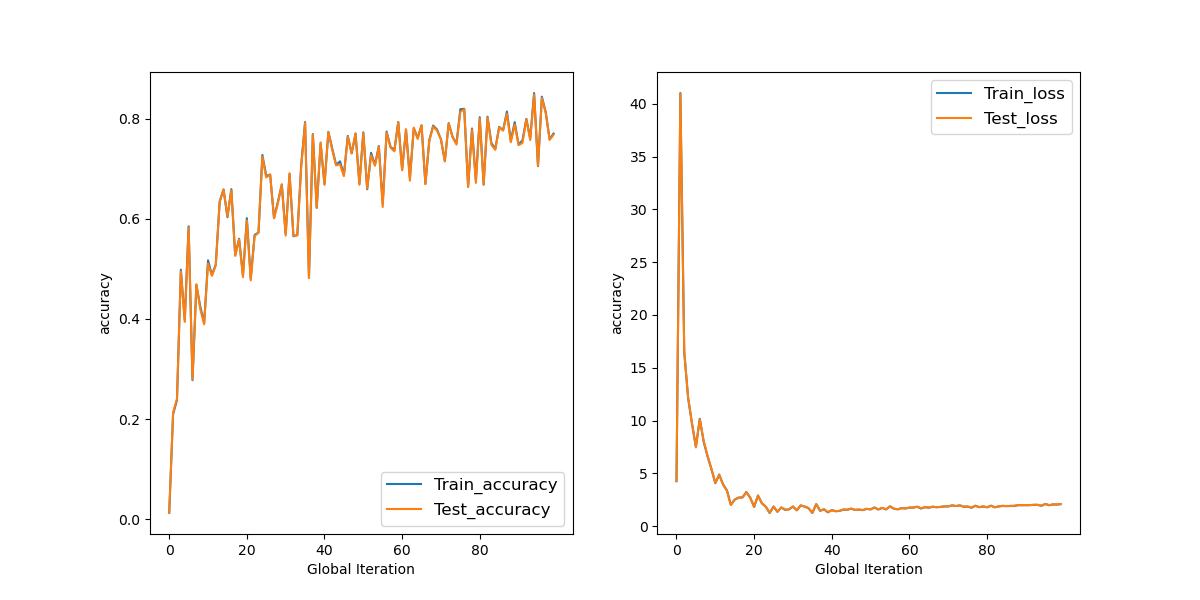
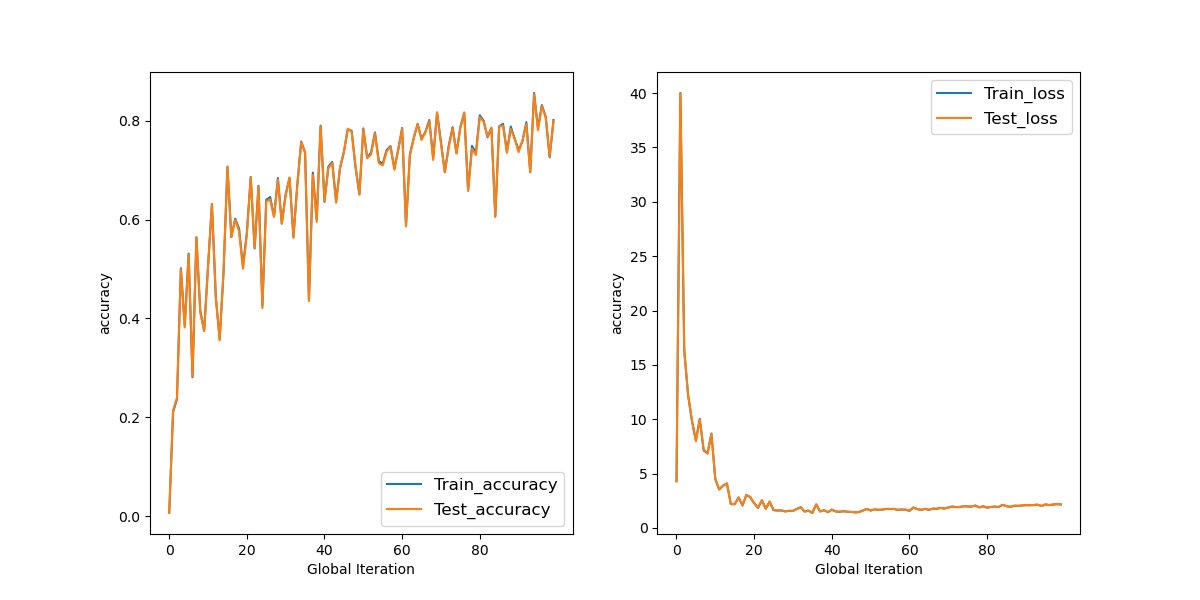
DNN added

diff --git a/main.py b/main.py
@@ -97,19 +97,19 @@ def main(dataset, problem_type, model_name, fl_algorithm, optimizer, fl_aggregat
                     model = DNN(561,100,12).to(device)
                     loss = nn.NLLLoss()
                 elif(dataset == "gleam"):
-                    model = DNN(561,20,6).to(device), model
+                    model = DNN(561,20,6).to(device)
                     loss = nn.NLLLoss()
                 elif(dataset == "vehicle_sensor"):
-                    model = DNN(100,20,2).to(device), model
+                    model = DNN(100,20,2).to(device)
                     loss = nn.NLLLoss()
                 elif(dataset == "SYNTHETIC"):
-                    model = DNN(60,20,10).to(device), model
+                    model = DNN(60,20,10).to(device)
                     loss = nn.NLLLoss()
                 elif(dataset == "EMNIST"):
-                    model = DNN(784,200,62).to(device), model
+                    model = DNN(784,200,62).to(device)
                     loss = nn.NLLLoss()
                 else:#(dataset == "Mnist"):
-                    model = DNN2().to(device), model
+                    model = DNN2().to(device)
                     loss = nn.NLLLoss()
         
 
@@ -121,21 +121,21 @@ def main(dataset, problem_type, model_name, fl_algorithm, optimizer, fl_aggregat
         
 
         if problem_category == 3:
-            if fl_algorithm == "FedAvg":
-                users = []   # the list of the object of the users
-                data = read_data(dataset) 
-                # print(data)
-
-                # print("len_data",len(data[1]))
-                # input("press")
-                """
-                data[0] : client id
-                data[1] : train data
-                data[2] : test data
+            users = []
+            print(dataset)
+            data = read_data(args)
+            total_users = len(data[0])  
+            if fl_algorithm == "FedFW":
+                server = FedFW_Server(fl_aggregator, fl_algorithm, model, model_name, dataset, global_iters, lambda_0, kappa, exp_no )
+                for i in range(0,total_users):
+                    train, test = read_user_data(i,data,dataset)
+                    data_ratio = len(data[1])/len(train)
+                    user = FedFW_Client(model, optimizer, loss, total_users, train, test, local_iters, lambda_0, kappa, batch_size, data_ratio, 
+                                        device)   # Creating the instance of the users. 
+                    
+                    users.append(user)
                 
-                """
-                # read_dataset will return 
-                total_users = len(data[0])  
+            elif fl_algorithm == "FedAvg":
                 server = Fed_Avg_Server(fl_aggregator, model)
                 for i in range(0,total_users):
                     train, test = read_user_data(i,data,dataset)
@@ -145,42 +145,8 @@ def main(dataset, problem_type, model_name, fl_algorithm, optimizer, fl_aggregat
                     # print("data_ratio",data_ratio) ## The ratio is not fixed yet
                     user = Fed_Avg_Client(model, optimizer, loss, train, test, local_iters, step_size, batch_size, data_ratio, device)   # Creating the instance of the users. 
                     users.append(user)
-                # print(users)
 
-
-            if fl_algorithm == "FedFW":
-                users = []
-                print(dataset)
-                data = read_data(args)
-                total_users = len(data[0])  
-                server = FedFW_Server(fl_aggregator,
-                                      fl_algorithm,
-                                      model,
-                                      model_name,
-                                      dataset,
-                                      global_iters,
-                                      lambda_0,
-                                      kappa,
-                                      exp_no
-                                      )
-                for i in range(0,total_users):
-                    train, test = read_user_data(i,data,dataset)
-                    data_ratio = len(data[1])/len(train)
-                    user = FedFW_Client(model, 
-                                        optimizer,
-                                        loss,
-                                        total_users,
-                                        train, 
-                                        test, 
-                                        local_iters, 
-                                        lambda_0,
-                                        kappa,
-                                        batch_size, 
-                                        data_ratio, 
-                                        device)   # Creating the instance of the users. 
-                   
-                    users.append(user)
-            
+                
             server.train(users)
             server.save_file()
             server.plot_result()
@@ -204,18 +170,18 @@ def main(dataset, problem_type, model_name, fl_algorithm, optimizer, fl_aggregat
 if __name__ == "__main__":
     parser = argparse.ArgumentParser()
 
-    parser.add_argument("--dataset", type=str, default="SYNTHETIC", choices=["MNIST", "FMNIST", "CIFAR10", "EMNIST", "CIFAR100", "CELEBA", "SYNTHETIC", "MOVIELENS_1m", "MOVIELENS_100k"])
+    parser.add_argument("--dataset", type=str, default="EMNIST", choices=["MNIST", "FMNIST", "CIFAR10", "EMNIST", "CIFAR100", "CELEBA", "SYNTHETIC", "MOVIELENS_1m", "MOVIELENS_100k"])
     parser.add_argument("--problem_type", type=str, default="NN", choices=["QAP", "NN", "Matrix_completion"])
-    parser.add_argument("--model_name", type=str, default="MCLR",  choices=["CNN", "MCLR", "DNN"])
+    parser.add_argument("--model_name", type=str, default="DNN",  choices=["CNN", "MCLR", "DNN"])
     parser.add_argument("--times", type=int, default=1 )
     parser.add_argument("--fl_algorithm", type=str, default= "FedFW")
     parser.add_argument("--optimizer", type=str, default="FW", choices=["FW","GD", "SGD", "PGD", "PSGD"])
     parser.add_argument("--step_size", type=float, default=0.05)
-    parser.add_argument("--lambda_0", type=float, default=0.0000001)
-    parser.add_argument("--kappa", type=float,  default=5.0)
-    parser.add_argument("--glob_iters", type=int, default=100)
+    parser.add_argument("--lambda_0", type=float, default=0.0001)
+    parser.add_argument("--kappa", type=float,  default=10.0)
+    parser.add_argument("--glob_iters", type=int, default=1000)
     parser.add_argument("--local_iters", type=int, default=1)
-    parser.add_argument("--batch_size", type=int, default=124)
+    parser.add_argument("--batch_size", type=int, default=2000)
     parser.add_argument("--device", type=int, default=0, choices=[0,1,2,3,4,5,6,7,8] )
     parser.add_argument("--fl_aggregator", type=str, default="simple_averaging", choices = ["simple_averaging", "weighted_averaging"])
 

diff --git a/src/server/FedFW_server.py b/src/server/FedFW_server.py
@@ -163,7 +163,7 @@ class FedFW_Server():
         ax[1].plot(self.avg_train_loss_list, label= "Train_loss")
         ax[1].plot(self.avg_test_loss_list, label= "Test_loss")
         ax[1].set_xlabel("Global Iteration")
-        ax[1].set_ylabel("accuracy")
+        ax[1].set_ylabel("Loss")
         ax[1].set_xticks(range(0, self.global_iters, int(self.global_iters/5)))
         ax[1].legend(prop={"size":12})
         
